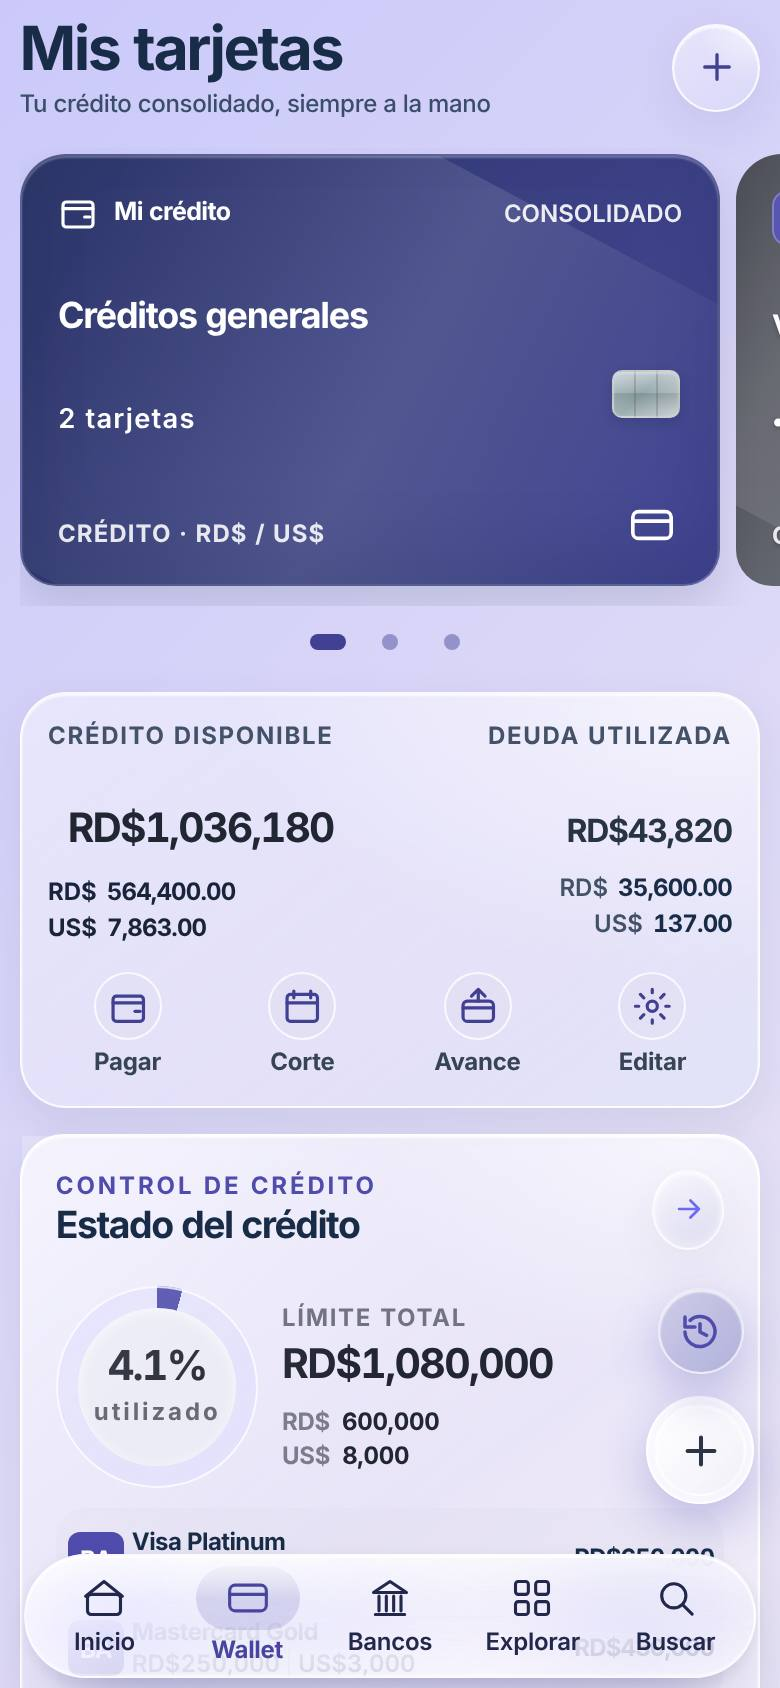
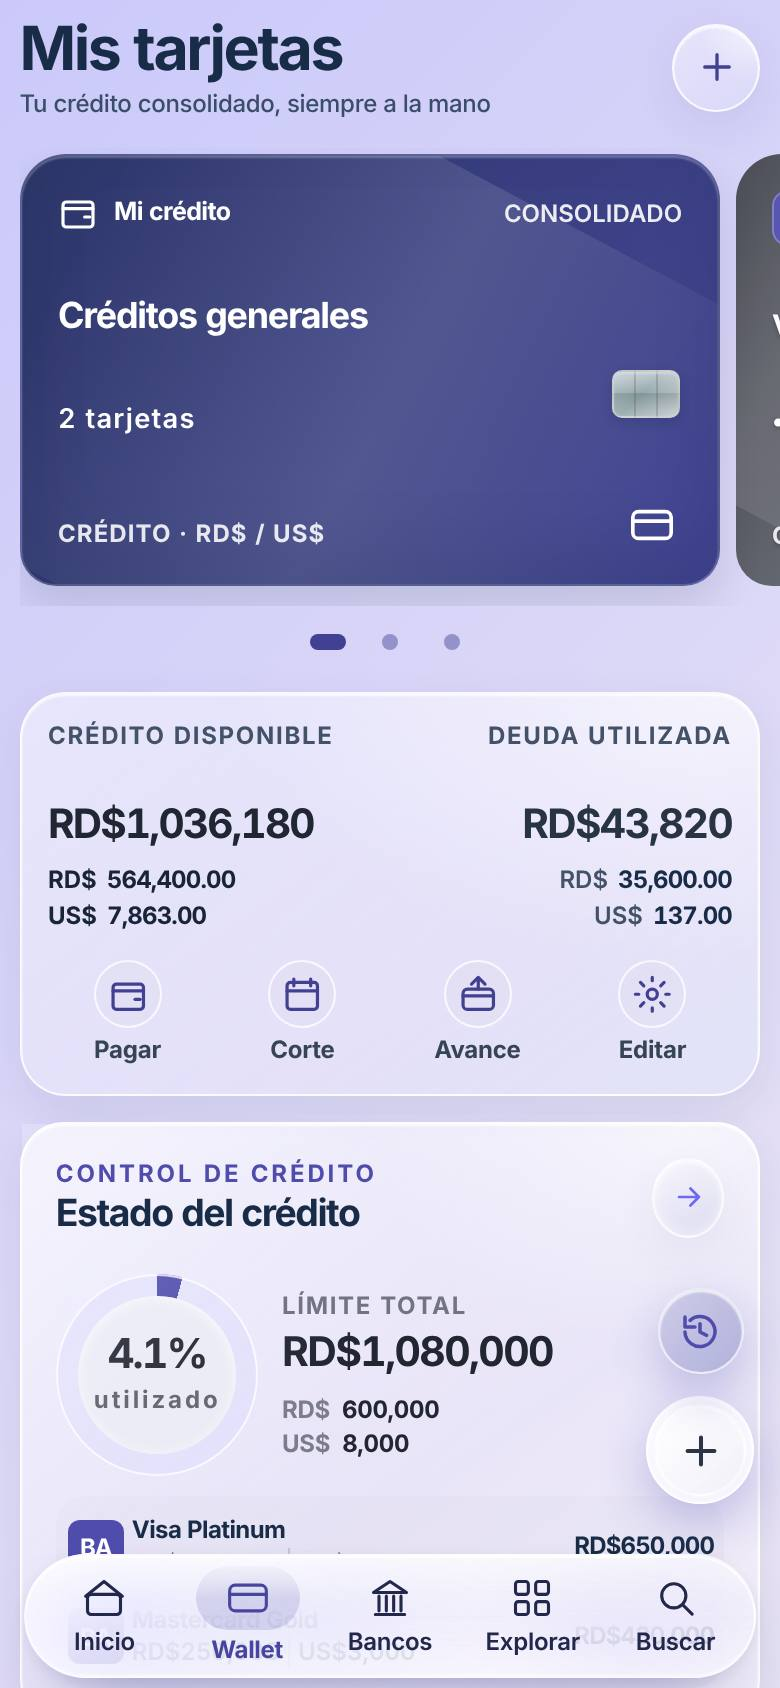
Wallet móvil: importes principales del resumen de crédito alineados (mismo tamaño, línea base y borde izquierdo)
Claude-Session: https://claude.ai/code/session_01AwzF8JXGCqasa7rHAy2PHn

diff --git a/src/wallet-mobile-top.css b/src/wallet-mobile-top.css
@@ -439,3 +439,9 @@
 }
 /* Mis tarjetas: subtítulo bajo el título, como Bancos */
 @media (max-width:790px){html body #app#app #page#page .v266-wallet-header .v266-wallet-sub{margin:2px 0 0;font-size:14px;font-weight:500;line-height:1.25;color:var(--vx-text-2,#5b6478)}}
+/* Resumen de crédito: ambos importes principales al mismo tamaño, misma línea base y alineados con su etiqueta */
+@media (max-width:790px){
+ html body #app#app#app #page#page .wallet-mobile-summary :is(strong,b).vx-money{font-size:clamp(18px,5.2vw,22px)!important;line-height:1.15!important;margin:0!important;padding:0!important;text-indent:0!important;min-width:0!important}
+ html body #app#app#app #page#page .wallet-mobile-summary strong.vx-money{text-align:left!important;justify-self:start!important;margin-left:0!important;align-self:flex-start!important;transform:none!important}
+ html body #app#app#app #page#page .wallet-mobile-summary b.vx-money{text-align:right!important;justify-self:end!important;align-self:flex-end!important;margin-top:5px!important;transform:none!important}
+}

diff --git a/index.html b/index.html
@@ -39,7 +39,7 @@
 <link rel="stylesheet" href="./src/wallet-glass.css?v=911"/>
 <link rel="stylesheet" href="./src/wallet-reference-fidelity.css?v=81"/>
 <link rel="stylesheet" href="./src/wallet-mobile-approved.css?v=41" media="(max-width: 790px)"/>
-<link rel="stylesheet" href="./src/wallet-mobile-top.css?v=101.1.2" media="(max-width: 790px)"/>
+<link rel="stylesheet" href="./src/wallet-mobile-top.css?v=101.1.3" media="(max-width: 790px)"/>
 <link rel="stylesheet" href="./src/movimientos-desktop.css?v=711" media="(min-width: 791px)"/>
 <link rel="stylesheet" href="./src/wallet-cut-consumption.css?v=23"/>
 <link rel="stylesheet" href="./src/liquid-material.css?v=21.111"/>
